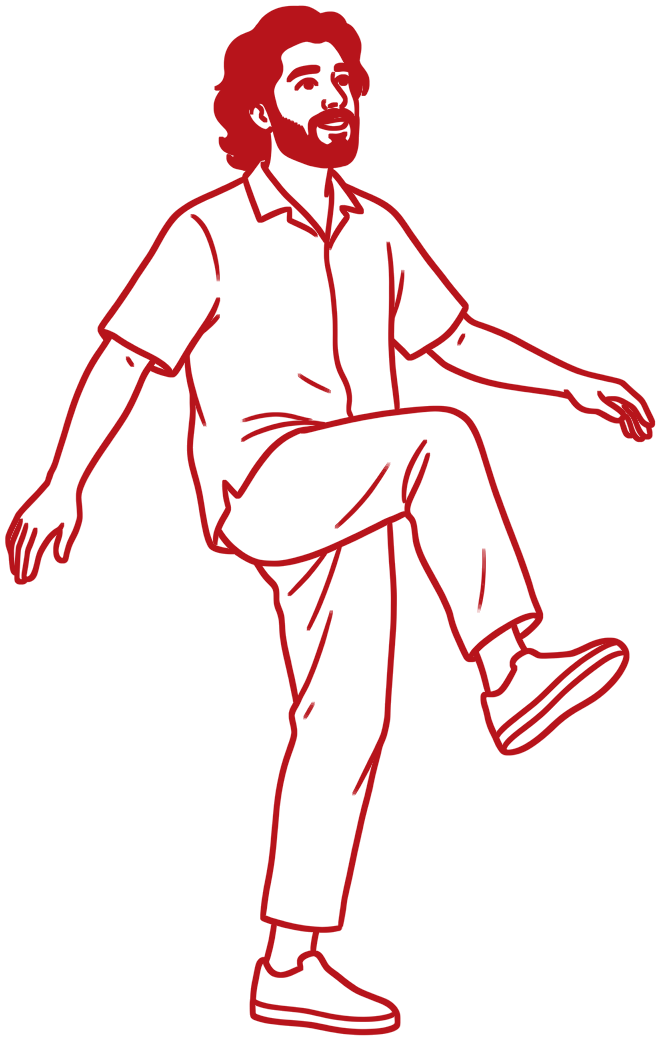
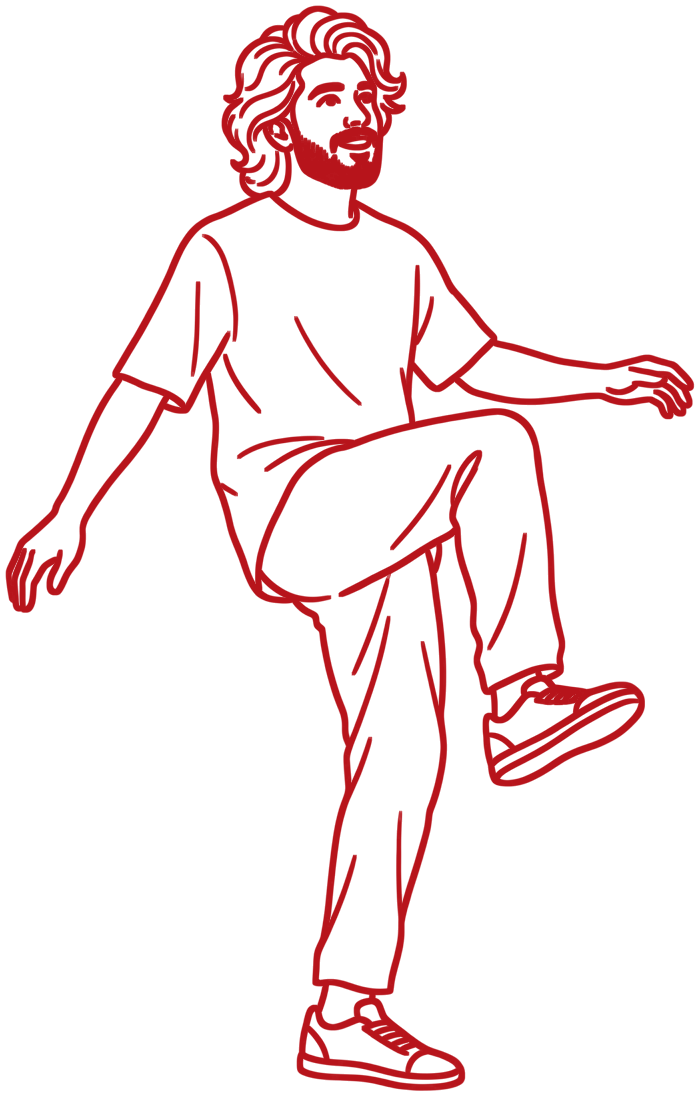
v126: welcome composition with five line drawings around the card
- Juggling and FIFA redrawn with unfilled hair and beard
- New: dumbbell shoulder press, Royal Enfield Bullet, and Shea chasing a ball round the screen
- Each animated in CSS: keepy-ups, reps with a count, GOAL!, engine thump with "dug dug dug", Shea's laps
- The card is unchanged; drawings hide on narrow or short screens, Shea still runs on phones

Claude-Session: https://claude.ai/code/session_013G15fzCMwgXvJexXZMdXm4

Changed region(s): [[0.0, 0.0, 1.0, 1.0]]

diff --git a/styles.css b/styles.css
@@ -667,11 +667,12 @@ button.card .cover::before, button.card .cover::after { display: none; }   /* re
   .tool-grid { grid-template-columns: repeat(4, minmax(0, 1fr)); gap: 16px 8px; }
   .tool-ico { width: 54px; height: 54px; border-radius: 14px; } .tool-ico svg { width: 28px; height: 28px; }
 }
-/* ───────── Welcome screen v125: the sky with "talent ain't enough", the v123 card over it, Sijo juggling and playing FIFA either side ───────── */
+/* ───────── Welcome screen v125: the sky with "talent ain't enough", the dark card over it, and around it Sijo (keepy-ups, a shoulder press,
+   FIFA, the Bullet) and Shea chasing a ball round the screen, all in the red ink of the cloud's handwriting ───────── */
 .loader { background: #2f63b0; }
 .loader::before { content: ""; position: fixed; inset: 0; background: #2f63b0 url(assets/welcome/sky.webp) center 50% / cover no-repeat; }
 @media (max-width: 760px) { .loader::before { background-image: url(assets/welcome/sky-sm.webp); } }
-.loader-inner { position: relative; z-index: 2; padding: 52px 60px 46px; border-radius: 34px; background: rgba(12, 12, 14, .72);
+.loader-inner { position: relative; z-index: 3; padding: 52px 60px 46px; border-radius: 34px; background: rgba(12, 12, 14, .72);
   backdrop-filter: blur(24px) saturate(1.2); -webkit-backdrop-filter: blur(24px) saturate(1.2);
   border: 1px solid rgba(255, 255, 255, .09); box-shadow: 0 40px 120px rgba(0, 0, 0, .45); }
 .loader.ready .loader-inner { gap: 26px; padding: 46px 60px 40px; max-width: calc(100vw - 32px); }
@@ -682,37 +683,85 @@ button.card .cover::before, button.card .cover::after { display: none; }   /* re
 .loader-rule i { display: block; width: 40px; height: 1px; background: rgba(255, 255, 255, .22); }
 .loader-rule b { display: block; width: 5px; height: 5px; border-radius: 50%; background: var(--blue); }
 
-/* the two drawings, either side of the card: red ink lines only, like the handwriting in the cloud */
-.wl-ill { position: absolute; z-index: 1; top: 50%; pointer-events: none; }
+/* the drawings: two columns either side of the card, staggered so each has air around it */
+.wl-ill { position: absolute; z-index: 1; pointer-events: none; }
 .wl-ill img, .wl-ill svg { display: block; width: 100%; height: auto; }
 .wl-ill svg { position: absolute; inset: 0; height: 100%; overflow: visible; }
-.wl-juggle { left: max(3.5vw, 20px); height: min(56vh, 580px); aspect-ratio: 660 / 1040; transform: translateY(-50%); }
-.wl-fifa { right: max(2.5vw, 18px); width: min(30vw, 500px); aspect-ratio: 1048 / 655; transform: translateY(-40%); }
+.wl-ill text { font-family: "Caveat", "Comic Sans MS", cursive; font-weight: 700; fill: #B8141B; paint-order: stroke; stroke: rgba(255,255,255,.85); stroke-linejoin: round; }
+.wl-juggle { left: 5vw; top: 15vh; height: 37vh; aspect-ratio: 699 / 1096; }
+.wl-lift { left: 19.5vw; top: 50vh; height: 35vh; aspect-ratio: 508 / 1140; }
+.wl-fifa { right: 3vw; top: 14vh; width: 26vw; aspect-ratio: 1139 / 653; }
+.wl-bullet { right: 4.5vw; top: 52vh; width: 24vw; aspect-ratio: 1073 / 742; }
 .wl-ill img { animation: wlBoil .5s steps(1) infinite; }
 @keyframes wlBoil { 0% { translate: 0 0; } 33% { translate: .4px -.3px; } 66% { translate: -.3px .3px; } }
-/* keepy-up: the ball rises off the raised foot and drops back, spinning; he bobs on each touch */
+
+/* keepy-ups: the ball pops off the raised foot and drops back, spinning; he bobs on each touch */
 .wl-juggle img { transform-origin: 40% 100%; animation: wlTouch 1.1s cubic-bezier(.3,.6,.4,1) infinite, wlBoil .5s steps(1) infinite; }
 @keyframes wlTouch { 0%, 100% { transform: none; } 8% { transform: translateY(-5px) rotate(-1.2deg); } 32% { transform: none; } }
 .wl-ball { animation: wlUp 1.1s infinite; }
-@keyframes wlUp { 0% { transform: translate(560px, 604px); animation-timing-function: cubic-bezier(.15,.7,.35,1); }
-  50% { transform: translate(528px, 150px); animation-timing-function: cubic-bezier(.65,0,.85,.3); } 100% { transform: translate(560px, 604px); } }
+@keyframes wlUp { 0% { transform: translate(566px, 628px); animation-timing-function: cubic-bezier(.15,.7,.35,1); }
+  50% { transform: translate(536px, 110px); animation-timing-function: cubic-bezier(.65,0,.85,.3); } 100% { transform: translate(566px, 628px); } }
 .wl-spin { animation: wlSpin 1.1s linear infinite; } @keyframes wlSpin { to { rotate: 360deg; } }
 .wl-kick { opacity: 0; animation: wlKick 1.1s infinite; } @keyframes wlKick { 0%, 14% { opacity: 1; } 22%, 100% { opacity: 0; } }
+
+/* shoulder press: each rep he dips and drives up, the effort lines flick, a bead of sweat, and the count in handwriting */
+.wl-lift img { transform-origin: 50% 100%; animation: wlRep 1.6s cubic-bezier(.45,0,.3,1) infinite, wlBoil .5s steps(1) infinite; }
+@keyframes wlRep { 0%, 100% { transform: none; } 45% { transform: translateY(14px) scaleY(.975); } 60% { transform: translateY(-3px); } 72% { transform: none; } }
+.wl-effort { opacity: 0; animation: wlEffort 1.6s infinite; } @keyframes wlEffort { 0%, 52% { opacity: 0; } 58%, 74% { opacity: 1; } 84%, 100% { opacity: 0; } }
+.wl-sweat { animation: wlSweat 4.8s infinite; } @keyframes wlSweat { 0%, 40% { opacity: 0; transform: none; } 50% { opacity: 1; } 80% { opacity: 1; transform: translateY(40px); } 90%, 100% { opacity: 0; transform: translateY(52px); } }
+.wl-reps { font-size: 130px; stroke-width: 10px; }
+.wl-reps tspan { opacity: 0; } .wl-reps .r1 { animation: wlR1 4.8s infinite; } .wl-reps .r2 { animation: wlR2 4.8s infinite; } .wl-reps .r3 { animation: wlR3 4.8s infinite; }
+@keyframes wlR1 { 0%, 8% { opacity: 0; } 12%, 30% { opacity: 1; } 34%, 100% { opacity: 0; } }
+@keyframes wlR2 { 0%, 41% { opacity: 0; } 45%, 63% { opacity: 1; } 67%, 100% { opacity: 0; } }
+@keyframes wlR3 { 0%, 74% { opacity: 0; } 78%, 96% { opacity: 1; } 100% { opacity: 0; } }
+
 /* FIFA: a little match plays on the TV; the shot goes in, GOAL!, the controller buzzes, he jumps */
 .wl-tvball { animation: wlBall 6s ease-in-out infinite; } .wl-att { animation: wlAtt 6s ease-in-out infinite; }
 .wl-def { animation: wlDef 6s ease-in-out infinite; } .wl-gk { animation: wlGk 6s ease-in-out infinite; }
-.wl-goal { font: 700 108px/1 "Caveat", "Comic Sans MS", cursive; fill: #B8141B; opacity: 0; transform-box: fill-box; transform-origin: center; animation: wlGoal 6s infinite; }
+.wl-goal { font-size: 116px; stroke-width: 10px; opacity: 0; transform-box: fill-box; transform-origin: center; animation: wlGoal 6s infinite; }
 @keyframes wlGoal { 0%, 61% { opacity: 0; scale: .4; } 65% { opacity: 1; scale: 1.18; } 69%, 90% { opacity: 1; scale: 1; } 94%, 100% { opacity: 0; scale: 1; } }
 .wl-buzz { opacity: 0; animation: wlBuzz 6s infinite; } @keyframes wlBuzz { 0%, 61%, 86%, 100% { opacity: 0; } 63%, 67%, 71%, 75%, 79% { opacity: 1; } 65%, 69%, 73%, 77% { opacity: .2; } }
 .wl-fifa img { animation: wlCheer 6s infinite, wlBoil .5s steps(1) infinite; transform-origin: 75% 100%; }
 @keyframes wlCheer { 0%, 61%, 82%, 100% { transform: none; } 65% { transform: translateY(-8px) rotate(.6deg); } 69% { transform: translateY(-2px); } 73% { transform: translateY(-7px) rotate(-.4deg); } 77% { transform: none; } }
-@keyframes wlBall { 0% { transform: translate(146.5px, 335.0px); } 15% { transform: translate(159.6px, 303.0px); } 32% { transform: translate(172.7px, 353.7px); } 50% { transform: translate(191.0px, 314.4px); } 62% { transform: translate(213.3px, 321.2px); } 86% { transform: translate(213.3px, 321.2px); } 87% { transform: translate(146.5px, 335.0px); } 100% { transform: translate(146.5px, 335.0px); } }
-@keyframes wlAtt { 0% { transform: translate(138.6px, 341.1px); } 15% { transform: translate(153.1px, 312.4px); } 32% { transform: translate(166.2px, 351.4px); } 50% { transform: translate(184.5px, 319.4px); } 62% { transform: translate(193.7px, 325.3px); } 86% { transform: translate(193.7px, 325.3px); } 87% { transform: translate(138.6px, 341.1px); } 100% { transform: translate(138.6px, 341.1px); } }
-@keyframes wlDef { 0% { transform: translate(175.3px, 289.2px); } 20% { transform: translate(177.9px, 318.6px); } 40% { transform: translate(185.8px, 336.6px); } 55% { transform: translate(198.9px, 342.7px); } 86% { transform: translate(198.9px, 346.4px); } 87% { transform: translate(175.3px, 289.2px); } 100% { transform: translate(175.3px, 289.2px); } }
-@keyframes wlGk { 0% { transform: translate(208.1px, 322.3px); } 45% { transform: translate(208.1px, 311.5px); } 58% { transform: translate(208.1px, 351.0px); } 86% { transform: translate(208.1px, 351.0px); } 87% { transform: translate(208.1px, 322.3px); } 100% { transform: translate(208.1px, 322.3px); } }
-/* no room beside the card on narrower or short screens: the drawings rest */
-@media (max-width: 1180px), (max-height: 600px) { .wl-ill { display: none; } }
-@media (prefers-reduced-motion: reduce) { .wl-ill img, .wl-ball, .wl-spin, .wl-kick, .wl-tvball, .wl-att, .wl-def, .wl-gk, .wl-goal, .wl-buzz { animation: none; } .wl-ball { transform: translate(545px, 320px); } .wl-tvball { transform: translate(146px, 330px); } .wl-goal { opacity: 1; } }
+@keyframes wlBall { 0% { transform: translate(172.0px, 289.0px); } 15% { transform: translate(187.0px, 255.8px); } 32% { transform: translate(202.0px, 309.0px); } 50% { transform: translate(223.0px, 268.4px); } 62% { transform: translate(248.5px, 275.7px); } 86% { transform: translate(248.5px, 275.7px); } 87% { transform: translate(172.0px, 289.0px); } 100% { transform: translate(172.0px, 289.0px); } }
+@keyframes wlAtt { 0% { transform: translate(163.0px, 295.2px); } 15% { transform: translate(179.5px, 265.4px); } 32% { transform: translate(194.5px, 306.5px); } 50% { transform: translate(215.5px, 273.4px); } 62% { transform: translate(226.0px, 279.6px); } 86% { transform: translate(226.0px, 279.6px); } 87% { transform: translate(163.0px, 295.2px); } 100% { transform: translate(163.0px, 295.2px); } }
+@keyframes wlDef { 0% { transform: translate(205.0px, 241.7px); } 20% { transform: translate(208.0px, 272.5px); } 40% { transform: translate(217.0px, 291.2px); } 55% { transform: translate(232.0px, 297.7px); } 86% { transform: translate(232.0px, 301.5px); } 87% { transform: translate(205.0px, 241.7px); } 100% { transform: translate(205.0px, 241.7px); } }
+@keyframes wlGk { 0% { transform: translate(242.5px, 276.8px); } 45% { transform: translate(242.5px, 265.7px); } 58% { transform: translate(242.5px, 306.3px); } 86% { transform: translate(242.5px, 306.3px); } 87% { transform: translate(242.5px, 276.8px); } 100% { transform: translate(242.5px, 276.8px); } }
+
+/* the Bullet: the engine's thump shakes the bike, the tread spins, the road streams back, smoke puffs and "dug dug dug" */
+.wl-bullet img { animation: wlThump .24s steps(2) infinite, wlBoil .5s steps(1) infinite; }
+@keyframes wlThump { 0% { transform: translateY(0); } 50% { transform: translateY(-2px); } }
+.wl-tread { transform-box: fill-box; transform-origin: center; animation: wlTread .5s linear infinite; } @keyframes wlTread { to { rotate: -360deg; } }
+.wl-road { animation: wlRoad .5s linear infinite; } @keyframes wlRoad { to { stroke-dashoffset: -140; } }
+.wl-puff { opacity: 0; transform-box: fill-box; transform-origin: center; animation: wlPuff 1.8s ease-out infinite; }
+.wl-puff.p2 { animation-delay: .6s; } .wl-puff.p3 { animation-delay: 1.2s; }
+@keyframes wlPuff { 0% { opacity: .9; transform: translate(0, 0) scale(.5); } 100% { opacity: 0; transform: translate(150px, -60px) scale(1.8); } }
+.wl-dug { font-size: 64px; stroke-width: 8px; opacity: 0; animation: wlDug 3.6s infinite; }
+@keyframes wlDug { 0%, 10% { opacity: 0; transform: translate(0, 10px); } 20%, 60% { opacity: 1; transform: none; } 75%, 100% { opacity: 0; transform: translate(40px, -10px); } }
+
+/* Shea chases a ball round the screen: along the bottom to the right, then back along the top to the left */
+.wl-shea { position: fixed; inset: 0; z-index: 2; pointer-events: none; overflow: hidden; }
+.wl-shea-cat, .wl-shea-ball { position: absolute; left: 0; top: 0; }
+.wl-shea-cat { width: clamp(110px, 11vw, 170px); height: auto; }
+.wl-shea-ball { width: clamp(30px, 2.8vw, 44px); animation: wlSheaBall 16s linear infinite; }
+.wl-shea-ball svg { display: block; width: 100%; height: auto; overflow: visible; }
+.wl-shea-ball .wl-spin { animation-duration: .7s; }
+@keyframes wlSheaRun {
+  0% { transform: translate(-20vw, calc(93vh - 100%)) scaleX(1); } 46% { transform: translate(110vw, calc(93vh - 100%)) scaleX(1); }
+  46.01% { transform: translate(110vw, 5vh) scaleX(-1); } 92% { transform: translate(-20vw, 5vh) scaleX(-1); } 92.01%, 100% { transform: translate(-20vw, calc(93vh - 100%)) scaleX(1); } }
+@keyframes wlSheaBall {
+  0% { transform: translate(calc(-20vw + clamp(110px, 11vw, 170px) + 34px), calc(93vh - 100%)); } 46% { transform: translate(calc(110vw + clamp(110px, 11vw, 170px) + 34px), calc(93vh - 100%)); }
+  46.01% { transform: translate(calc(110vw - 64px), 8.5vh); } 92% { transform: translate(calc(-20vw - 64px), 8.5vh); }
+  92.01%, 100% { transform: translate(calc(-20vw + clamp(110px, 11vw, 170px) + 34px), calc(93vh - 100%)); } }
+.wl-shea-cat { animation: wlSheaRun 16s linear infinite, wlBound .38s ease-in-out infinite alternate; }
+@keyframes wlBound { from { translate: 0 0; rotate: -3deg; } to { translate: 0 -14px; rotate: 4deg; } }
+
+/* no room for the drawings beside the card on narrower or short screens; Shea still runs */
+@media (max-width: 1180px), (max-height: 640px) { .wl-ill { display: none; } }
+@media (max-height: 460px) { .wl-shea { display: none; } }
+@media (prefers-reduced-motion: reduce) {
+  .wl-ill img, .wl-ball, .wl-spin, .wl-kick, .wl-tvball, .wl-att, .wl-def, .wl-gk, .wl-goal, .wl-buzz, .wl-effort, .wl-sweat, .wl-reps tspan, .wl-tread, .wl-road, .wl-puff, .wl-dug { animation: none; }
+  .wl-ball { transform: translate(550px, 360px); } .wl-tvball { transform: translate(172px, 300px); } .wl-goal, .wl-dug, .wl-reps .r3 { opacity: 1; } .wl-shea { display: none; } }
 @media (max-height: 520px) {
   .loader.ready .hello { margin-top: -16px; gap: 0; }
   .loader.ready .hello-en, .loader.ready .loader-rule { display: none; }

diff --git a/index.html b/index.html
@@ -24,11 +24,11 @@
   <meta property="og:image:height" content="630">
   <meta property="og:image:alt" content="Sijo Joseph, product, UX and AI designer, with four case study covers">
   <meta name="twitter:card" content="summary_large_image">
-  <script src="update.js?v=125"></script>
-  <script src="gate.js?v=125"></script>
-  <link href="fonts/fonts.css?v=125" rel="stylesheet">
-  <link rel="stylesheet" href="styles.css?v=125">
-  <link rel="stylesheet" href="reader.css?v=125">
+  <script src="update.js?v=126"></script>
+  <script src="gate.js?v=126"></script>
+  <link href="fonts/fonts.css?v=126" rel="stylesheet">
+  <link rel="stylesheet" href="styles.css?v=126">
+  <link rel="stylesheet" href="reader.css?v=126">
   <script type="importmap">
   {
     "imports": {
@@ -42,10 +42,10 @@
   <link rel="modulepreload" href="vendor/three/examples/jsm/loaders/GLTFLoader.js">
   <link rel="modulepreload" href="vendor/three/examples/jsm/controls/OrbitControls.js">
   <link rel="modulepreload" href="vendor/three/examples/jsm/libs/meshopt_decoder.module.js">
-  <link rel="modulepreload" href="main.js?v=125">
-  <link rel="modulepreload" href="sound.js?v=125">
-  <link rel="modulepreload" href="room-utils.js?v=125">
-  <link rel="modulepreload" href="cat.js?v=125">
+  <link rel="modulepreload" href="main.js?v=126">
+  <link rel="modulepreload" href="sound.js?v=126">
+  <link rel="modulepreload" href="room-utils.js?v=126">
+  <link rel="modulepreload" href="cat.js?v=126">
   <script type="application/ld+json">{"@context": "https://schema.org", "@type": "Person", "name": "Sijo Joseph", "url": "https://sijo.work/", "jobTitle": "Product, UX and AI designer", "alumniOf": {"@type": "CollegeOrUniversity", "name": "National Institute of Design, Bengaluru"}, "address": {"@type": "PostalAddress", "addressLocality": "Bengaluru", "addressCountry": "IN"}, "sameAs": ["https://www.linkedin.com/in/sijodesign", "https://github.com/sijojoseph7509-a11y"], "knowsAbout": ["Product design", "UX design", "Interaction design", "Information design", "Wayfinding", "Brand identity", "AI-assisted prototyping"]}</script>
 </head>
 <body>
@@ -88,20 +88,37 @@
 
   <!-- Loader -->
   <div class="loader" id="loader">
-    <!-- v125: Sijo, drawn in the red ink of the cloud's handwriting (Figma AI, line only); the ball, the match on the TV and GOAL! are animated in CSS -->
+    <!-- v125: Sijo and Shea, drawn in the red ink of the cloud's handwriting (Figma AI, line only), animated in CSS around the welcome card -->
     <div class="wl-ill wl-juggle" aria-hidden="true">
-      <img src="assets/welcome/juggle.webp" alt="" width="660" height="1040" decoding="async">
-      <svg viewBox="0 0 660 1040"><g class="wl-kick"><path d="M506,640 l-24,6 M512,662 l-26,12 M618,636 l24,-8" stroke="#B8141B" stroke-width="5" stroke-linecap="round"/></g><g class="wl-ball"><g class="wl-spin"><circle r="40" fill="none" stroke="#B8141B" stroke-width="5"/><path d="M0,-14 L13.3,-4.3 L8.2,11.3 L-8.2,11.3 L-13.3,-4.3 Z" fill="#B8141B"/><path d="M0,-14 V-37 M13.3,-4.3 L35,-11 M8.2,11.3 L21,31 M-8.2,11.3 L-21,31 M-13.3,-4.3 L-35,-11" stroke="#B8141B" stroke-width="4.5" stroke-linecap="round" fill="none"/></g></g></svg>
+      <img src="assets/welcome/juggle.webp" alt="" width="699" height="1096" decoding="async">
+      <svg viewBox="0 0 699 1096"><g class="wl-kick" stroke="#B8141B" stroke-width="6" stroke-linecap="round"><path d="M512,690 l-26,6 M518,714 l-28,14 M622,686 l26,-8"/></g><g class="wl-ball"><g class="wl-spin"><circle r="54" fill="none" stroke="#B8141B" stroke-width="6.8"/><path d="M0,-18.9 L18.0,-5.8 L11.1,15.3 L-11.1,15.3 L-18.0,-5.8 Z" fill="#B8141B"/><path d="M0,-18.9 V-49.7 M18.0,-5.8 L47.0,-15.1 M11.1,15.3 L28.6,41.6 M-11.1,15.3 L-28.6,41.6 M-18.0,-5.8 L-47.0,-15.1" stroke="#B8141B" stroke-width="6.0" stroke-linecap="round" fill="none"/></g></g></svg>
+    </div>
+    <div class="wl-ill wl-lift" aria-hidden="true">
+      <img src="assets/welcome/lift.webp" alt="" width="508" height="1140" decoding="async">
+      <svg viewBox="0 0 508 1140"><g class="wl-effort" stroke="#B8141B" stroke-width="6" stroke-linecap="round" fill="none"><path d="M20,40 l-22,-14 M14,78 l-26,0 M480,70 l24,-14 M488,108 l26,0"/></g>
+        <path class="wl-sweat" d="M352,190 q-12,20 0,26 q12,-6 0,-26 Z" fill="none" stroke="#B8141B" stroke-width="5"/>
+        <text class="wl-reps" x="-230" y="640"><tspan class="r1">8</tspan><tspan class="r2" x="-230">9</tspan><tspan class="r3" x="-230">10!</tspan></text></svg>
     </div>
     <div class="wl-ill wl-fifa" aria-hidden="true">
-      <img src="assets/welcome/fifa.webp" alt="" width="1048" height="655" decoding="async">
-      <svg viewBox="0 0 1048 655"><g class="wl-pitch" fill="none" stroke="#B8141B" stroke-width="2.6" stroke-linejoin="round"><path d="M81,220 L212,233 L212,410 L81,477 Z"/><path d="M146.5,226.5 L146.5,443.5"/><path d="M159.3,332.4 L158.8,339.5 L157.6,346.4 L155.5,352.6 L152.9,357.7 L149.8,361.3 L146.5,363.2 L143.2,363.2 L140.1,361.2 L137.5,357.3 L135.4,351.8 L134.2,345.1 L133.7,337.6 L134.2,330.0 L135.4,322.7 L137.5,316.4 L140.1,311.4 L143.2,308.2 L146.5,306.8 L149.8,307.3 L152.9,309.7 L155.5,313.7 L157.6,319.1 L158.8,325.4 Z"/><path d="M81.0,292.0 L100.7,290.6 L100.7,398.4 L81.0,405.0"/><path d="M212.0,282.6 L192.3,284.0 L192.3,367.1 L212.0,360.4"/><path d="M212.0,307.3 L217.2,306.5 L217.2,334.3 L212.0,335.7"/></g>
-        <circle class="wl-p wl-def" r="9" fill="none" stroke="#B8141B" stroke-width="3.5"/><circle class="wl-p wl-gk" r="9" fill="none" stroke="#B8141B" stroke-width="3.5"/>
-        <circle class="wl-p wl-att" r="9.5" fill="#B8141B"/><circle class="wl-p wl-tvball" r="5.5" fill="#B8141B"/>
-        <text class="wl-goal" x="40" y="150" transform="rotate(-9 150 130)">GOAL!</text>
-        <g class="wl-buzz" stroke="#B8141B" stroke-width="5" stroke-linecap="round"><path d="M538,262 l-20,-14 M530,296 l-26,2 M540,328 l-18,14"/></g></svg>
+      <img src="assets/welcome/fifa.webp" alt="" width="1139" height="653" decoding="async">
+      <svg viewBox="0 0 1139 653"><g fill="none" stroke="#B8141B" stroke-width="3" stroke-linejoin="round"><path d="M97,165 L247,185 L247,367 L97,439 Z"/><path d="M172.0,175.0 L172.0,403.0"/><path d="M186.6,286.5 L186.1,293.9 L184.7,301.1 L182.3,307.6 L179.3,312.9 L175.8,316.7 L172.0,318.6 L168.2,318.6 L164.7,316.4 L161.7,312.3 L159.3,306.5 L157.9,299.4 L157.4,291.5 L157.9,283.5 L159.3,275.9 L161.7,269.3 L164.7,264.1 L168.2,260.7 L172.0,259.4 L175.8,260.0 L179.3,262.6 L182.3,266.8 L184.7,272.5 L186.1,279.2 Z"/><path d="M97.0,241.7 L119.5,240.9 L119.5,355.3 L97.0,362.3"/><path d="M247.0,236.0 L224.5,236.8 L224.5,323.0 L247.0,316.0"/><path d="M247.0,261.4 L253.0,260.7 L253.0,289.2 L247.0,290.6"/></g>
+        <circle class="wl-p wl-def" r="10" fill="none" stroke="#B8141B" stroke-width="4"/><circle class="wl-p wl-gk" r="10" fill="none" stroke="#B8141B" stroke-width="4"/>
+        <circle class="wl-p wl-att" r="10.5" fill="#B8141B"/><circle class="wl-p wl-tvball" r="6" fill="#B8141B"/>
+        <text class="wl-goal" x="60" y="120" transform="rotate(-9 170 90)">GOAL!</text>
+        <g class="wl-buzz" stroke="#B8141B" stroke-width="6" stroke-linecap="round"><path d="M580,265 l-22,-16 M570,302 l-28,2 M580,338 l-20,16"/></g></svg>
     </div>
-  <div class="loader-inner">
+    <div class="wl-ill wl-bullet" aria-hidden="true">
+      <img src="assets/welcome/bullet.webp" alt="" width="1073" height="742" decoding="async">
+      <svg viewBox="0 0 1073 742"><g fill="none" stroke="#B8141B" stroke-width="5" stroke-linecap="round"><circle class="wl-tread" cx="148" cy="595" r="124" stroke-dasharray="6 34"/><circle class="wl-tread" cx="718" cy="602" r="124" stroke-dasharray="6 34"/></g>
+        <path class="wl-road" d="M-60,740 H1130" stroke="#B8141B" stroke-width="5" stroke-linecap="round" stroke-dasharray="70 70"/>
+        <g fill="none" stroke="#B8141B" stroke-width="5"><circle class="wl-puff p1" cx="905" cy="628" r="26"/><circle class="wl-puff p2" cx="905" cy="628" r="20"/><circle class="wl-puff p3" cx="905" cy="628" r="32"/></g>
+        <text class="wl-dug" x="860" y="520">dug dug dug</text></svg>
+    </div>
+    <div class="wl-shea" aria-hidden="true">
+      <div class="wl-shea-ball"><svg viewBox="-46 -46 92 92"><g class="wl-spin"><circle r="40" fill="none" stroke="#B8141B" stroke-width="5.0"/><path d="M0,-14.0 L13.3,-4.3 L8.2,11.3 L-8.2,11.3 L-13.3,-4.3 Z" fill="#B8141B"/><path d="M0,-14.0 V-36.8 M13.3,-4.3 L34.8,-11.2 M8.2,11.3 L21.2,30.8 M-8.2,11.3 L-21.2,30.8 M-13.3,-4.3 L-34.8,-11.2" stroke="#B8141B" stroke-width="4.4" stroke-linecap="round" fill="none"/></g></svg></div>
+      <img class="wl-shea-cat" src="assets/welcome/shea.webp" alt="" width="995" height="596" decoding="async">
+    </div>
+    <div class="loader-inner">
       <span class="loader-name" aria-hidden="true"><img src="assets/brand/sj-mark-on-dark.svg" alt=""></span>
       <p class="loader-who">Sijo Joseph</p>
       <span class="loader-rule" aria-hidden="true"><i></i><b></b><i></i></span>
@@ -203,11 +220,11 @@
     </div>
   </noscript>
 
-  <script src="content.js?v=125"></script>
-  <script src="track.js?v=125"></script>
-  <script src="icons.js?v=125"></script>
-  <script src="os.js?v=125"></script>
-  <script src="music.js?v=125"></script>
-  <script type="module" src="main.js?v=125"></script>
+  <script src="content.js?v=126"></script>
+  <script src="track.js?v=126"></script>
+  <script src="icons.js?v=126"></script>
+  <script src="os.js?v=126"></script>
+  <script src="music.js?v=126"></script>
+  <script type="module" src="main.js?v=126"></script>
 </body>
 </html>

diff --git a/main.js b/main.js
@@ -5,8 +5,8 @@ import { RoomEnvironment } from "three/addons/environments/RoomEnvironment.js";
 import { GLTFLoader } from "three/addons/loaders/GLTFLoader.js";
 import { MeshoptDecoder } from "three/addons/libs/meshopt_decoder.module.js";
 import { mergeGeometries } from "three/addons/utils/BufferGeometryUtils.js";
-import { Sound } from "./sound.js?v=125";
-import { sharpen, rr, bezier, tileNoise, wrapText } from "./room-utils.js?v=125";
+import { Sound } from "./sound.js?v=126";
+import { sharpen, rr, bezier, tileNoise, wrapText } from "./room-utils.js?v=126";
 
 const S = window.SITE;
 const TOUCH = matchMedia("(pointer: coarse)").matches;   // phones & tablets: say "tap", no hover effects

diff --git a/HANDOVER.md b/HANDOVER.md
@@ -400,6 +400,7 @@ explorations · sketches · side projects · ideas"), poster text, terminal mess
 - **v123:** Welcome screen redesign: the loader sits on Sijo's favourite-photos collage (assets/brand/welcome-collage.webp, a 1000px -sm version for phones), darkened and blurred in `.loader::before` with a vignette in `::after`. The content is on a frosted panel (`.loader-inner`): sj logo, SIJO JOSEPH in spaced capitals (`.loader-who`), a thin rule with a blue dot, then a small നമസ്കാരം over HELLO. The old "Namaskaram, hello · from Kerala, at my desk in Bangalore" line is gone. Short screens (max-height 520px) get a compact panel that fits without scrolling.
 - **v124:** New welcome screen: Sijo's sky photo with the handwritten "TALENT (struck) AIN'T ENOUGH" in the cloud (assets/welcome/sky.webp, sky-sm.webp for phones) replaces the collage. Identity (logo, SIJO JOSEPH, നമസ്കാരം / HELLO) sits at the top, the welcome card low under the cloud so the handwriting stays clear. Either side, two illustrations of Sijo in the cloud text's red ink: juggling a football (left) and playing FIFA on a beanbag (right). They were generated with Figma AI (file "sijo.work — Welcome illustrations", key qjjOxukztOVXq4HCCforhm, nodes 1:2 and 2:2), pulled out through Figma screenshots (asset downloads are blocked in the cloud) and cut out (assets/welcome/juggle.webp, fifa.webp). The animation is inline SVG + CSS in index.html/styles.css: the ball keeps up off the raised foot and spins, he bobs on each touch; on the TV a little match plays in perspective, the shot goes in, GOAL! pops in Caveat, the controller buzzes and he jumps. A slight line jitter (wlBoil) keeps them hand-drawn. Hidden under 1000px wide or 600px tall; reduced-motion shows still poses.
 - **v125:** Welcome screen: the v123 dark centred card is back, over the sky (it may cover the cloud's handwriting; Sijo's call). The drawings are redrawn without sunglasses (Figma nodes 3:2 juggling, 5:2 FIFA) and are red ink lines only, no white fill (alpha from ink darkness, lines thickened one pixel). New geometry: juggle 660x1040, fifa 1048x655, TV screen corners (81,220) (212,233) (212,410) (81,477). Drawings hide under 1180px wide or 600px tall.
+- **v126:** Welcome screen composition: the dark card over the sky stays; around it five red-ink line drawings (Figma AI, "sijo.work — Welcome illustrations", nodes 6:2 juggle, 7:2 FIFA, 8:2 shoulder press, 9:2 Royal Enfield Bullet (mirrored to face the card), 10:2 Shea), all outline only, hair and beard unfilled, no sunglasses. Left column: keepy-ups (ball pops and spins) above a dumbbell press (dips and drives each rep, effort lines, sweat, a handwritten 8, 9, 10!). Right column: FIFA (match on the TV in perspective, GOAL!, buzz, cheer) above the Bullet (engine thump, spinning tread, road streaming back, smoke puffs, "dug dug dug"). Shea (`.wl-shea`, fixed, z 2) chases a ball along the bottom to the right and back along the top to the left every 16 s, bounding; she also runs on phones. Drawings hide under 1180px wide or 640px tall; Shea hides under 460px tall and with reduced motion. TV screen corners (cropped fifa.webp): (97,165) (247,185) (247,367) (97,439).
 - Work cards and About thumbnails use `case.coverSlide` when a project gives one (Syntra: `fx/cover-slide.webp`, 1440 × 900), otherwise the first section.
 - Desk folders: tab width now shares the edge (`TAB_W`), so 4+ projects never overlap.
 - ⚠ Testing note (14 Oct 2026): another session had an http-server on 127.0.0.1:4322 serving the `.claude/worktrees/goofy-solomon-8f688e` copy — always check `lsof -iTCP:<port>` or use a fresh port before trusting QA results.
